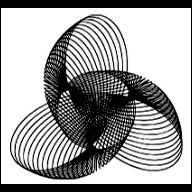
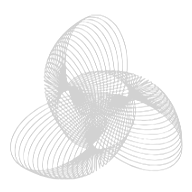
Ícone cinza claro transparente e foto do Sobre ampliada com nitidez

diff --git a/src/index.html b/src/index.html
@@ -2,7 +2,7 @@
 <html lang="pt-BR" class="lock">
 <head>
 <meta charset="utf-8">
-<meta name="vm-version" content="96">
+<meta name="vm-version" content="97">
 <meta name="viewport" content="width=device-width, initial-scale=1, viewport-fit=cover">
 <title>VM Studio | Archviz</title>
 <meta name="description" content="Imagens e filmes 3D para arquitetura e empreendimentos imobiliários.">
@@ -15,9 +15,8 @@
 <meta property="og:image:width" content="1200">
 <meta property="og:image:height" content="630">
 <meta name="twitter:card" content="summary_large_image">
-<!-- Ícone transparente: preto em telas claras (e no Google), branco no modo escuro; iPhone usa a versão com fundo -->
+<!-- Ícone transparente em cinza claro (aparece em fundo claro e escuro); iPhone usa a versão com fundo -->
 <link rel="icon" type="image/png" href="@inline:assets/icon.png">
-<link rel="icon" type="image/png" href="@inline:assets/icon-dark.png" media="(prefers-color-scheme: dark)">
 <link rel="apple-touch-icon" href="@inline:assets/apple-icon.png">
 <meta name="theme-color" content="#0a0a0c">
 <link href="https://fonts.googleapis.com/css2?family=Cormorant+Garamond:wght@300;400&family=Inter:wght@300;400&display=swap" rel="stylesheet">
